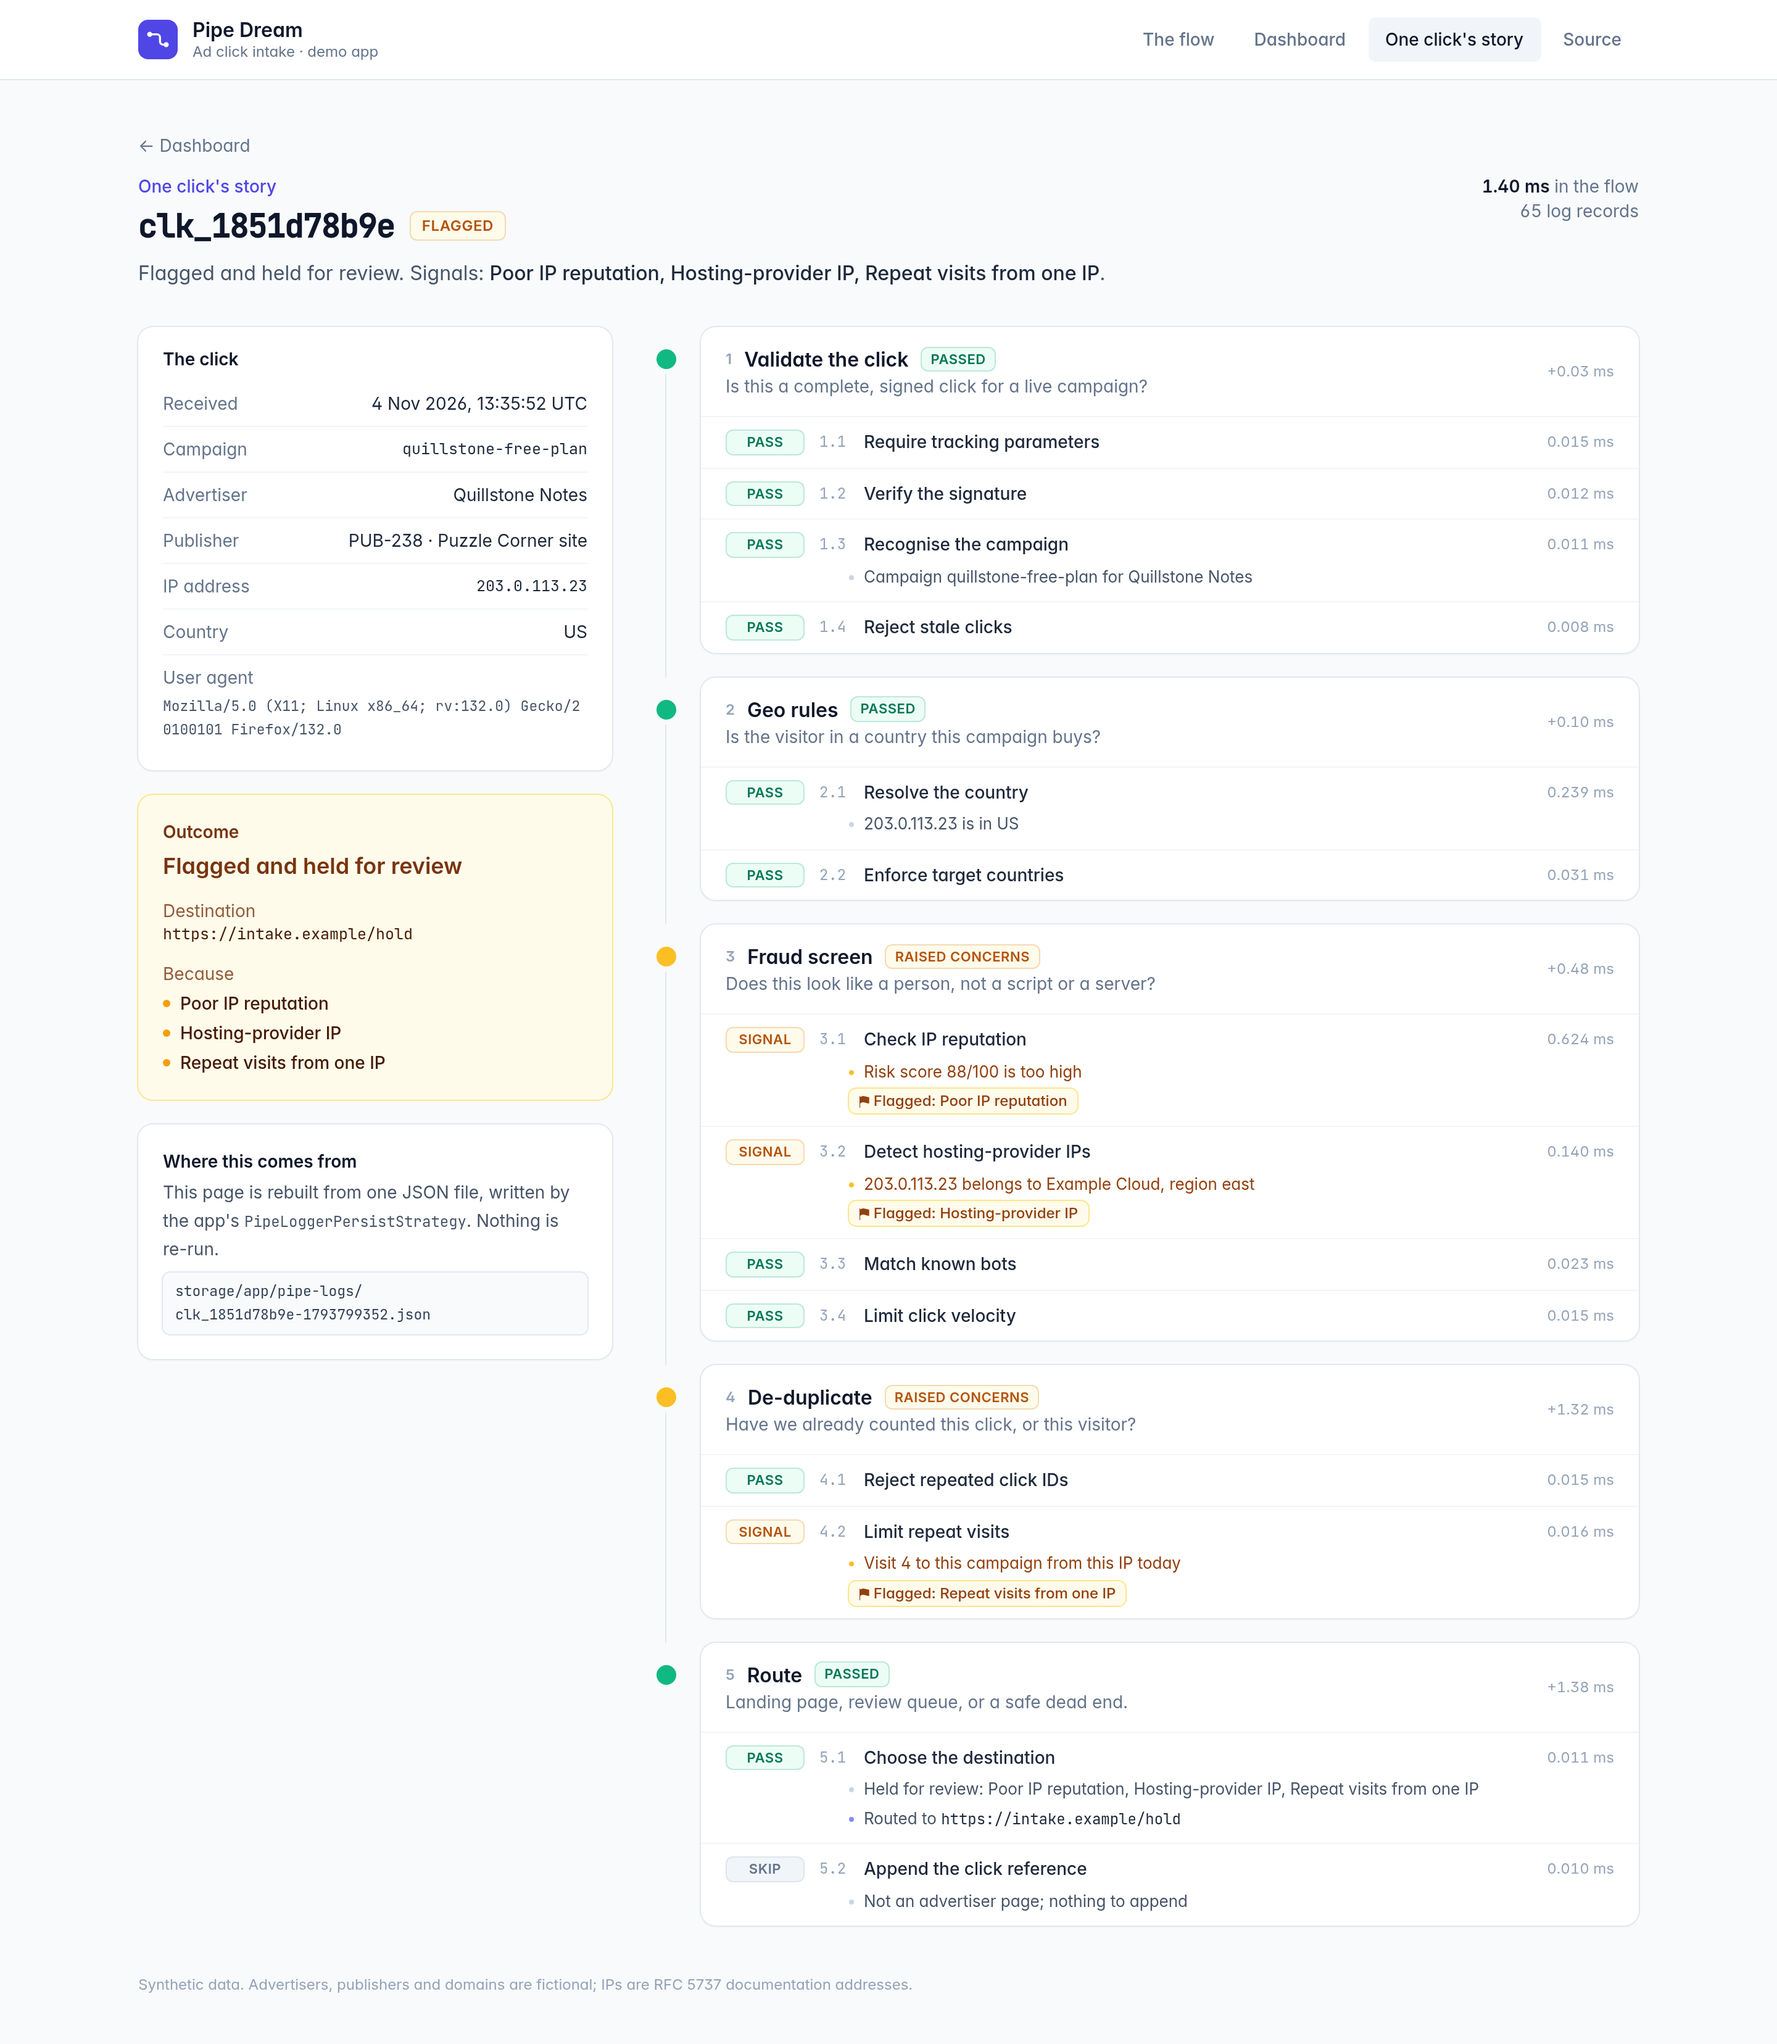
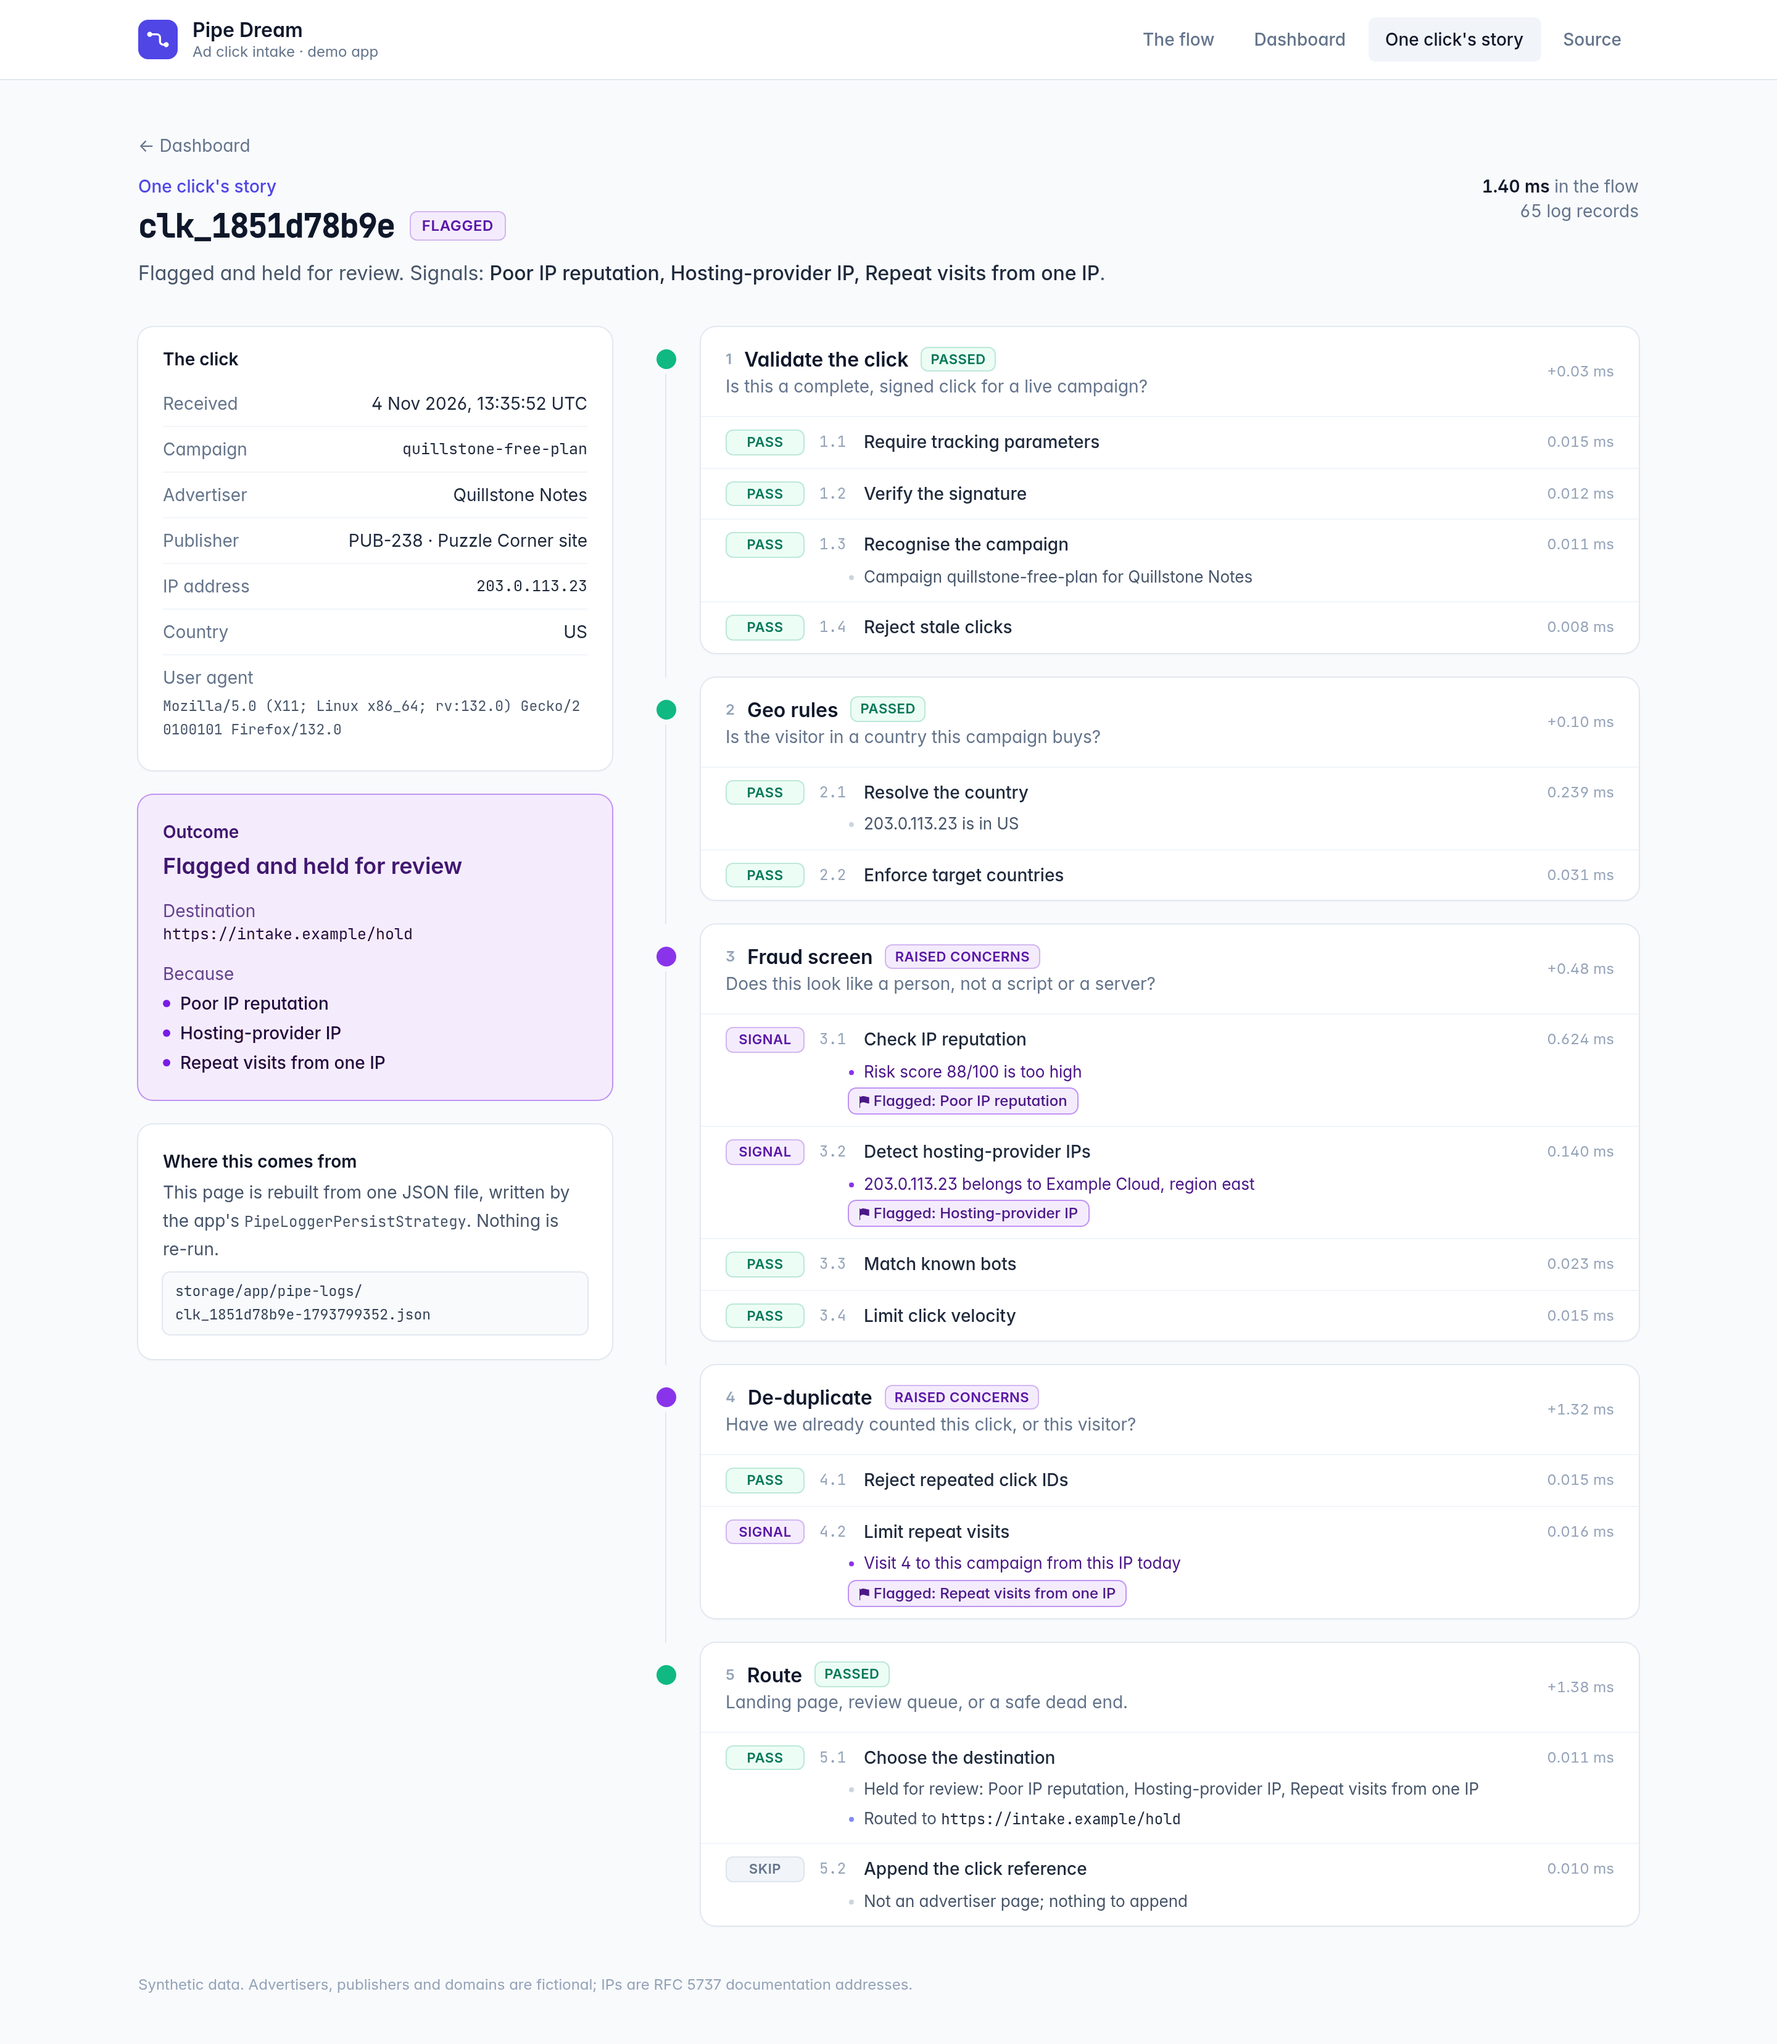
Correct three details in the docs and recolor the click story image

diff --git a/README.md b/README.md
@@ -35,7 +35,7 @@ Record & notify: Write the row, update the counters, tell the advertiser
   ✓ FirePostback            (1.07 ms)  Advertiser notified, HTTP 200
 ```
 
-The receipt lists every rule that ran, what it decided and why, and how long it took. A dropped click gets the same receipt. The rule that said no is marked with a ✗ and its reason, and every step after it is marked as skipped. Nobody has to guess where it stopped, or whether the advertiser was told.
+The receipt lists every rule that ran, what it decided and why, and how long it took. A dropped click gets the same receipt. The rule that said no is marked with a ✗ and its reason, and every stage it rules out is marked as skipped. Nobody has to guess where it stopped, or whether the advertiser was told.
 
 You didn't write a single log line to get that. You wrote this:
 

diff --git a/docs/index.md b/docs/index.md
@@ -30,7 +30,7 @@ Record & notify: Write the row, update the counters, tell the advertiser
   ✓ FirePostback            (1.07 ms)  Advertiser notified, HTTP 200
 ```
 
-The receipt lists every rule that ran, what it decided and why, and how long it took. A dropped click gets the same receipt. The rule that said no is marked with a ✗ and its reason, and every step after it is marked as skipped. Nobody has to guess where it stopped, or whether the advertiser was told.
+The receipt lists every rule that ran, what it decided and why, and how long it took. A dropped click gets the same receipt. The rule that said no is marked with a ✗ and its reason, and every stage it rules out is marked as skipped. Nobody has to guess where it stopped, or whether the advertiser was told.
 
 You didn't write a single log line to get that. You wrote this:
 

diff --git a/docs/12-checkout-walkthrough.md b/docs/12-checkout-walkthrough.md
@@ -79,7 +79,7 @@ Fulfill has the same skip as Charge. The flow's `then()` marks the order placed 
 | Order | Receipt header | What it shows |
 |---|---|---|
 | [`ord_48213`](index.md) | `On hold: Two or more fraud signals` | two flags, then Charge and Fulfill skipped with the reason |
-| [`ord_48214`](03-your-first-flow.md) | `Placed` | the fraud screen skipped for a trusted customer, every other step ✓ |
+| [`ord_48214`](03-your-first-flow.md) | `Placed` | the fraud screen skipped for a trusted customer, `ApplyDiscountCodes` skipped (no code), every other step ✓ |
 | [`ord_48215`](07-pass-flag-skip-stop.md) | `stopped` | one ■ at validation, and nothing after it |
 
 ## In an app

diff --git a/docs/08-redirects-and-views.md b/docs/08-redirects-and-views.md
@@ -54,7 +54,8 @@ class PlaceOrder
                     ->addPipes([
                         AuthorizePayment::class,
                         CapturePayment::class,
-                    ]),
+                    ])
+                    ->errorsAreFatal(),
             ])
                 ->name('Checkout')
                 ->subject($order)
@@ -78,7 +79,6 @@ Three orders go through it: a good one, one without an address and one with a so
 
 ```php
 $placeOrder = app(PlaceOrder::class);
-
 $placed = $placeOrder(Orders::find('ord_48214'));
 $noAddress = $placeOrder(Orders::find('ord_48216'));
 $soldOut = $placeOrder(Orders::find('ord_48215'));
